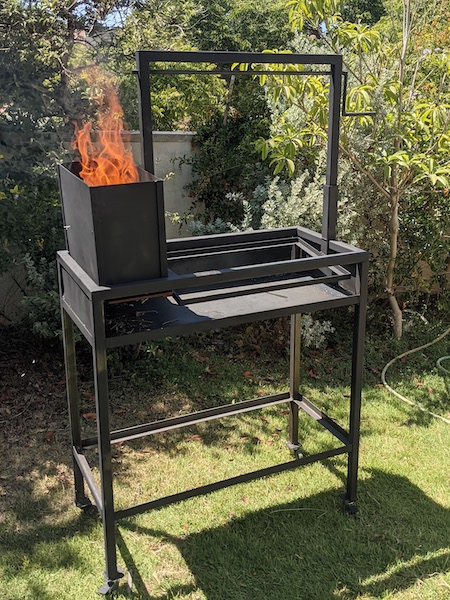
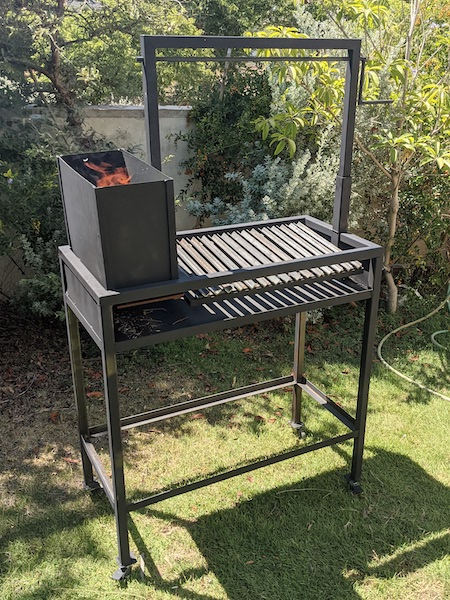
adding grill post

diff --git a/_pages/projects.html b/_pages/projects.html
@@ -1,0 +1,23 @@
+---
+layout: archive
+title: "Projects"
+permalink: /projects/
+author_profile: true
+---
+
+{% capture written_label %}'None'{% endcapture %}
+
+{% for collection in site.collections %}
+  {% unless collection.output == false or collection.label == "posts" %}
+    {% capture label %}{{ collection.label }}{% endcapture %}
+    {% if label != written_label %}
+      <h2 id="{{ label | slugify }}" class="archive__subtitle">{{ label }}</h2>
+      {% capture written_label %}{{ label }}{% endcapture %}
+    {% endif %}
+  {% endunless %}
+  {% for post in collection.docs %}
+    {% unless collection.output == false or collection.label == "posts" %}
+      {% include archive-single.html %}
+    {% endunless %}
+  {% endfor %}
+{% endfor %}

diff --git a/_diy/grill.md b/_diy/grill.md
@@ -1,0 +1,45 @@
+---
+title: Argentine Grill
+layout: single
+classes: wide
+date: 2022-06-13
+author_profile: true
+gallery1:
+  - url: /assets/imgs/grill-plans.png
+    image_path: /assets/imgs/grill-plans.png
+    alt: "SketchUp Plans"
+    title: "SketchUp Plans"
+  - url: /assets/imgs/grill-header.jpg
+    image_path: /assets/imgs/grill-header.jpg
+    alt: "Argentine Grill"
+    title: "Argentine Grilll"
+
+gallery2:
+  - image_path: /assets/imgs/grill1.jpg
+  - image_path: /assets/imgs/grill2.jpg
+  - image_path: /assets/imgs/grill3.jpg
+  - image_path: /assets/imgs/grill4.jpg
+  - image_path: /assets/imgs/grill5.jpg
+  - image_path: /assets/imgs/grill6.jpg
+---
+
+My first welding project - from plans to final product:
+
+{% include gallery id="gallery1" %}
+
+After a few years I did not get to work on a pet project because of work/kids/life/whatever, it tickled in my hands to learn something new. I convinced one of my friends and we took a welding course.
+
+I already had some experience with amateur carpentary, and learned that amateur welding is less complex in terms of both theory and required tools. Basically all you need is a welding machine and disc (angle grinder). That's an amazing upside!
+
+The downside is that you can basically build only two products - a grill and a smoker. So that's what I "decided" to do!
+I have built this grill as my welding course's "final project". It took about 5 working days, which spanned over a few months.
+
+I started this project by learning some [SketchUp](https://www.sketchup.com/products/sketchup-for-web) (the online free version). It is not very intuitive at first, especially if you don't have prior CAD software experience, so I would recommend some youtube tutorials.
+My design tried to follow the main features of argentine grills from Google photos ([for example](https://www.heritagebackyard.com/argentine-bbq-grills-with-a-cart-and-a-side-brasero-black-steel-and-stainless-steel-free-shipping/)) - wood box, height control, angled v-grates and cart on wheels. Here are the final plans - [pdf](https://drive.google.com/file/d/1-PHrdUqVthc6dWvIufLOeR36X269dZes/view?usp=sharing), [skp](https://drive.google.com/file/d/1hhnDqUSDZ81N2wACwPKFd756IhPI1Zz3/view?usp=sharing).
+
+After two sessions in welding course that we learned how to work with the electrode, I have started working on the grill. I used a "black iron" (wrought iron), a low carbon steel, as that is what we had avaiable at the course and also this is the most common welding material used. Afterwards I read that many people prefer low carbon steel over stainless steel for grills as it has much better heat conductivity (59 vs. 14 wtfs [ref](https://www.engineeringtoolbox.com/thermal-conductivity-metals-d_858.html)).
+
+Here are some photos from the process:
+{% include gallery id="gallery2" %}
+
+

diff --git a/_pages/home.md b/_pages/home.md
@@ -1,0 +1,7 @@
+---
+layout: single
+permalink: /
+hidden: true
+---
+
+A little space of my own..
